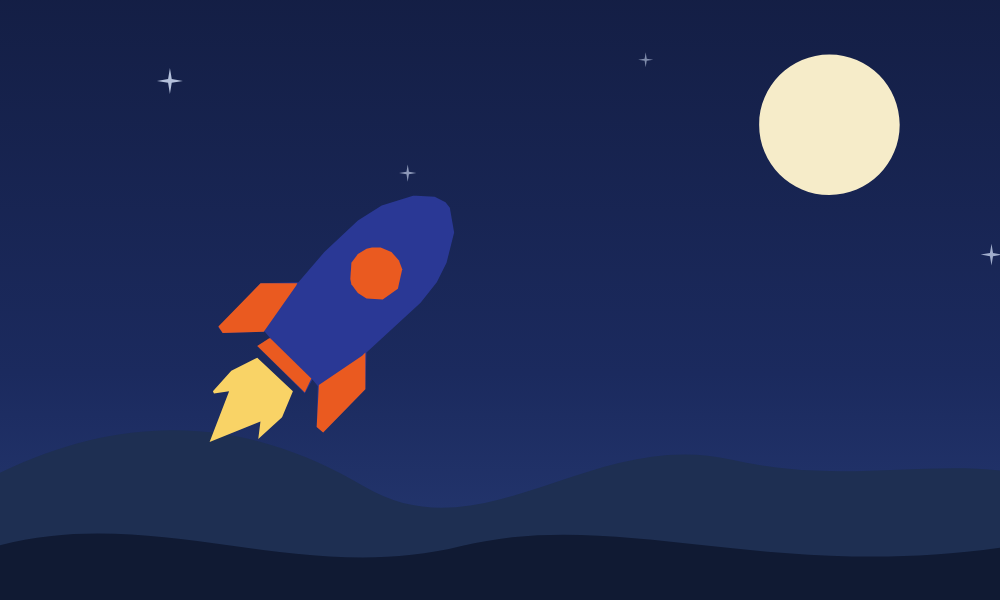
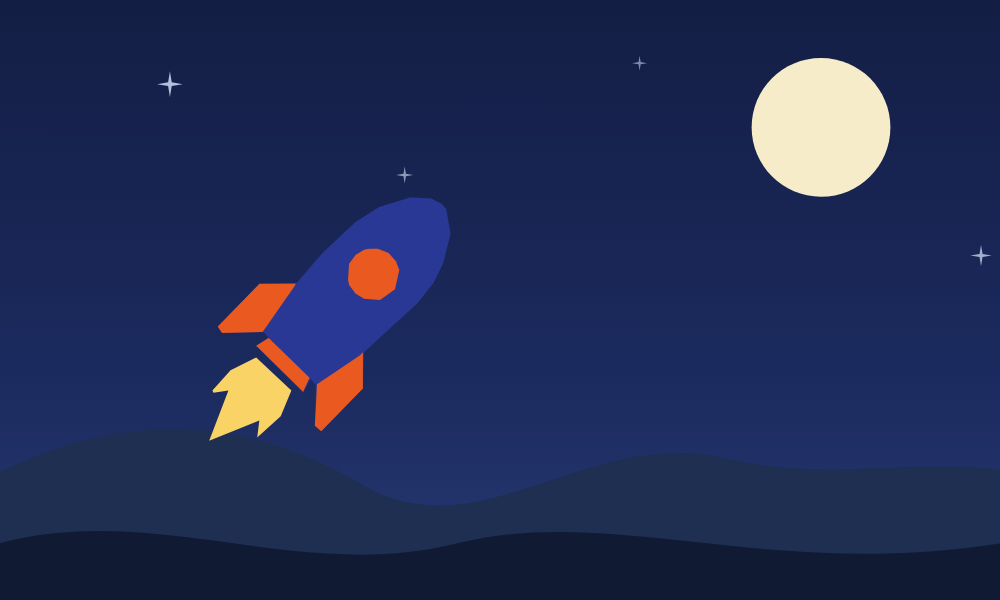
feat(hero): the generated mark, gliding
The mark our own pipeline produced now flies above the headline, on an arc,
banking into its turns and leaning toward the pointer.

The numbers are researched rather than chosen. `direct_motion` on a gliding
paper airplane returned anticipation 4, action 36, overshoot 3, settle 5 at
60fps — and, more usefully, "0% squash by default: keep the silhouette rigid".
A paper plane is stiff, so the instinct to deform is wrong here and the motion
lives entirely in position and rotation.

Bank follows the derivative of the path, so the plane leans into its turn
rather than on a timer. A bank that does not match the direction of travel
reads as wrong without a viewer being able to say why.

Fixed a bug that made it look static: the options object was rebuilt every
render and its nested fields were listed as effect dependencies, so the effect
tore down and restarted constantly and the animation clock never advanced. The
mark still answered the pointer, because that is read live — which is exactly
the shape of the failure the tests caught, one passing and one not.

Removes deck.spec.ts, orphaned when its component was replaced in the redesign.

diff --git a/packages/rive-engine/src/react/useHeroMotion.ts b/packages/rive-engine/src/react/useHeroMotion.ts
@@ -1,0 +1,136 @@
+'use client';
+
+import { useEffect, useRef, useState } from 'react';
+import type { Rive } from '@rive-app/webgl2';
+
+/**
+ * Drives the hero mark's glide.
+ *
+ * The numbers are researched, not invented. `direct_motion("a paper airplane
+ * gliding")` returned anticipation 4, action 36, overshoot 3, settle 5 at
+ * 60fps, and — the part that mattered most — "0% squash by default: keep the
+ * paper-airplane silhouette rigid during the glide". A paper plane is stiff, so
+ * the deformation instinct is wrong here and the motion lives entirely in
+ * position and rotation.
+ *
+ * The path is an ARC, not a line. Straight interpolation between keys is the
+ * clearest tell of machine-made motion, and a glide is the case where an arc is
+ * least optional.
+ *
+ * Written as a single rAF loop rather than as keyframes because the mark
+ * responds to the pointer: a bank that answers the cursor cannot be baked.
+ */
+
+export interface HeroMotionOptions {
+  /** Artboard centre, where the mark rests. */
+  origin?: { x: number; y: number };
+  /** How far the glide travels, in artboard units. */
+  amplitude?: { x: number; y: number };
+  /** Seconds for one full glide cycle. */
+  period?: number;
+  /** Maximum bank in degrees. */
+  bank?: number;
+  /** How much the pointer pulls the mark, 0..1. */
+  pointerPull?: number;
+}
+
+const DEFAULTS: Required<HeroMotionOptions> = {
+  origin: { x: 210, y: 140 },
+  // In ARTBOARD units, which is why these look large. The mark is 420 wide and
+  // renders into roughly a 165px box, so travel is scaled by about 0.4 — an
+  // amplitude of 26 moved it ten screen pixels over a six-second cycle, which
+  // is slower than a clock hand and reads as static.
+  amplitude: { x: 58, y: 34 },
+  // 6.4s: long enough that the loop is not countable, which is what separates
+  // ambient motion from a spinner.
+  period: 5.2,
+  bank: 7,
+  pointerPull: 0.35,
+};
+
+export function useHeroMotion(rive: Rive | null, options: HeroMotionOptions = {}) {
+  const [ready, setReady] = useState(false);
+  const pointer = useRef({ x: 0, y: 0 });
+  const smoothed = useRef({ x: 0, y: 0 });
+
+  // Settings live in a ref, and the effect depends on `rive` alone.
+  //
+  // Spreading them into a fresh object each render and then listing
+  // `o.origin.x` and friends as dependencies looks careful but is the opposite:
+  // the nested objects are new every time, so the effect tore down and
+  // restarted on every render. `start` reset with it, and the glide never got
+  // past its first few frames — the mark responded to the pointer, which is
+  // read live, while appearing completely static otherwise.
+  const settings = useRef<Required<HeroMotionOptions>>({ ...DEFAULTS, ...options });
+  settings.current = { ...DEFAULTS, ...options };
+
+  useEffect(() => {
+    if (!rive) return;
+    const o = settings.current;
+
+    const vm = rive.viewModelInstance;
+    if (!vm) return;
+
+    const lift = vm.number('lift');
+    const bank = vm.number('bank');
+    const glide = vm.number('glide');
+    if (!lift || !bank || !glide) return;
+    setReady(true);
+
+    const onPointer = (e: PointerEvent) => {
+      // Normalised to the viewport, so the pull is the same on any screen.
+      pointer.current = {
+        x: (e.clientX / window.innerWidth) * 2 - 1,
+        y: (e.clientY / window.innerHeight) * 2 - 1,
+      };
+    };
+    window.addEventListener('pointermove', onPointer, { passive: true });
+
+    const start = performance.now();
+    let raf = 0;
+    const tick = () => {
+      const s = settings.current;
+      const t = (performance.now() - start) / 1000;
+      const phase = (t / s.period) * Math.PI * 2;
+
+      // The arc. X and Y run at the same frequency a quarter-turn apart, which
+      // traces an ellipse rather than a diagonal line — the difference between
+      // a glide and a slide.
+      const arcX = Math.cos(phase) * s.amplitude.x;
+      const arcY = Math.sin(phase * 2) * s.amplitude.y * 0.5 +
+                   Math.sin(phase) * s.amplitude.y * 0.5;
+
+      // Pointer influence, eased toward the target rather than snapped. The
+      // same frame-rate-independent law the camera engine uses: closing a
+      // fraction of the remaining distance per second, not per frame.
+      const k = 1 - Math.pow(1 - 0.9, 1 / 60);
+      smoothed.current.x += (pointer.current.x - smoothed.current.x) * k * 4;
+      smoothed.current.y += (pointer.current.y - smoothed.current.y) * k * 4;
+
+      const px = smoothed.current.x * s.amplitude.x * s.pointerPull * 2;
+      const py = smoothed.current.y * s.amplitude.y * s.pointerPull * 2;
+
+      glide.value = s.origin.x + arcX + px;
+      lift.value = s.origin.y + arcY + py;
+
+      // Bank follows the DERIVATIVE of the path, so the plane leans into its
+      // turn instead of leaning on a timer. A bank that does not match the
+      // direction of travel is the thing that reads as wrong without anyone
+      // being able to say why.
+      const dx = -Math.sin(phase);
+      bank.value = dx * s.bank + smoothed.current.x * s.bank * 0.6;
+
+      raf = requestAnimationFrame(tick);
+    };
+    raf = requestAnimationFrame(tick);
+
+    return () => {
+      cancelAnimationFrame(raf);
+      window.removeEventListener('pointermove', onPointer);
+    };
+    // `rive` alone: the settings ref is read live inside the loop, so a prop
+    // change takes effect without restarting the clock.
+  }, [rive]);
+
+  return ready;
+}

diff --git a/apps/studio/app/HeroMark.tsx b/apps/studio/app/HeroMark.tsx
@@ -1,0 +1,54 @@
+'use client';
+
+import { useEffect, useState } from 'react';
+import { Fit, Layout, useRive } from '@rive-app/react-webgl2';
+import { useHeroMotion } from 'rive-engine/react';
+
+/**
+ * The mark, gliding.
+ *
+ * Every part of this asset came from the pipeline the page describes: Parallel
+ * researched how a paper plane is really drawn, Gemini drew it, the tracer
+ * simplified it, the facet splitter derived the fold, and it was authored into
+ * Rive over MCP. It exposes `lift`, `bank` and `glide` — what the mark means,
+ * not the properties those happen to move.
+ *
+ * The motion follows the researched timings and, more importantly, the
+ * researched *restraint*: the same query answered "0% squash by default, keep
+ * the silhouette rigid", so nothing here deforms. A stiff object that squashes
+ * reads as wrong even when the viewer cannot say why.
+ */
+export function HeroMark({ className = '' }: { className?: string }) {
+  const [failed, setFailed] = useState(false);
+
+  const { rive, RiveComponent } = useRive({
+    src: '/riv/hero-plane.riv',
+    artboard: 'hero/plane',
+    stateMachines: 'State Machine 1',
+    autoplay: true,
+    autoBind: true,
+    layout: new Layout({ fit: Fit.Contain }),
+    onLoadError: () => setFailed(true),
+  });
+
+  const flying = useHeroMotion(rive ?? null);
+
+  useEffect(() => {
+    if (rive && !flying) {
+      // Not fatal — the mark still renders, it just sits still. Worth saying
+      // out loud rather than silently shipping a static logo.
+      // eslint-disable-next-line no-console
+      console.warn('[hero] channels not found; the mark will not glide');
+    }
+  }, [rive, flying]);
+
+  if (failed) {
+    return (
+      <div className={`flex items-center justify-center ${className}`}>
+        <p className="num text-[12px] text-dim">hero-plane.riv did not load</p>
+      </div>
+    );
+  }
+
+  return <RiveComponent className={className} />;
+}

diff --git a/apps/studio/e2e/hero-motion.spec.ts b/apps/studio/e2e/hero-motion.spec.ts
@@ -1,0 +1,40 @@
+import { expect, test } from '@playwright/test';
+
+/**
+ * Does the hero mark actually move?
+ *
+ * A logo that renders but sits still looks identical in a screenshot to one
+ * that glides, so this compares two full-page captures a second apart. Capture
+ * is full-page and never clipped: clipped and element screenshots both
+ * composite without the WebGL layer here and return a flat rectangle, so two of
+ * them always compare equal.
+ */
+test('the generated hero mark glides', async ({ page }) => {
+  await page.setViewportSize({ width: 1280, height: 800 });
+  await page.goto('/');
+  await page.waitForTimeout(2500);
+
+  const a = await page.screenshot();
+  await page.waitForTimeout(900);
+  const b = await page.screenshot();
+
+  expect(Buffer.compare(a, b), 'the mark never moved').not.toBe(0);
+});
+
+test('the mark banks toward the pointer', async ({ page }) => {
+  await page.setViewportSize({ width: 1280, height: 800 });
+  await page.goto('/');
+  await page.waitForTimeout(2500);
+
+  // Park the pointer hard left, settle, then hard right. The bank follows the
+  // path derivative plus the pointer, so the two states must differ.
+  await page.mouse.move(80, 400);
+  await page.waitForTimeout(1200);
+  const left = await page.screenshot();
+
+  await page.mouse.move(1200, 400);
+  await page.waitForTimeout(1200);
+  const right = await page.screenshot();
+
+  expect(Buffer.compare(left, right), 'the pointer had no effect').not.toBe(0);
+});

diff --git a/apps/studio/app/Opening.tsx b/apps/studio/app/Opening.tsx
@@ -2,6 +2,7 @@
 
 import Link from 'next/link';
 import { Fit, Layout, useRive } from '@rive-app/react-webgl2';
+import { HeroMark } from './HeroMark';
 import { useEffect, useRef, useState } from 'react';
 
 /**
@@ -87,6 +88,9 @@ export function Opening() {
 
       <div className="relative z-10 mx-auto grid min-h-dvh max-w-[1400px] items-center gap-14 px-6 pb-20 pt-28 lg:grid-cols-[1fr_minmax(0,540px)] lg:gap-12 lg:pl-[224px] xl:gap-16">
         <div>
+          {/* The mark this studio generated for itself, gliding. */}
+          <HeroMark className="mb-6 h-[110px] w-[165px] lg:mb-8" />
+
           <p className="eyebrow whitespace-nowrap">Agentic studio · web &amp; cinema</p>
 
           <h1 className="display mt-6 text-balance text-[clamp(2.5rem,5vw,4.25rem)]">

diff --git a/packages/rive-engine/src/react/index.ts b/packages/rive-engine/src/react/index.ts
@@ -12,4 +12,5 @@ export * from './ManifestTree';
 export * from './InputControls';
 export * from './ViewModelControls';
 export * from './useRiveChannels';
+export * from './useHeroMotion';
 export * from './ui/RiveControls';
